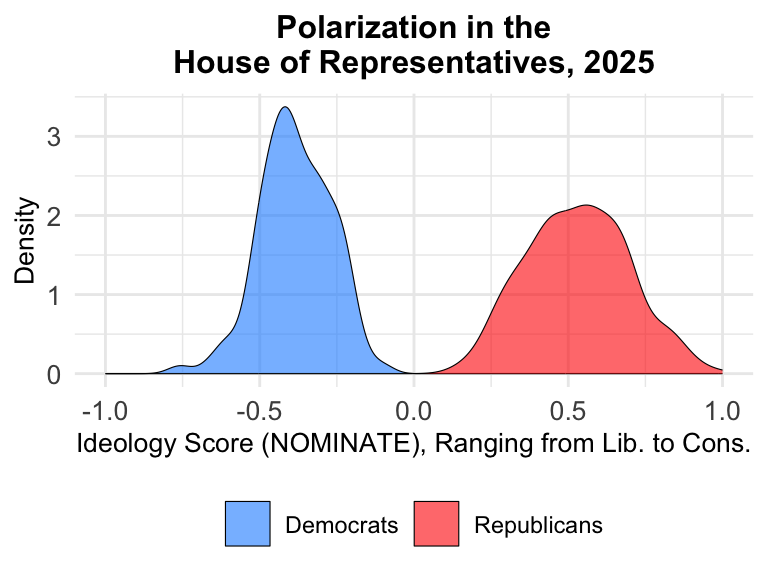
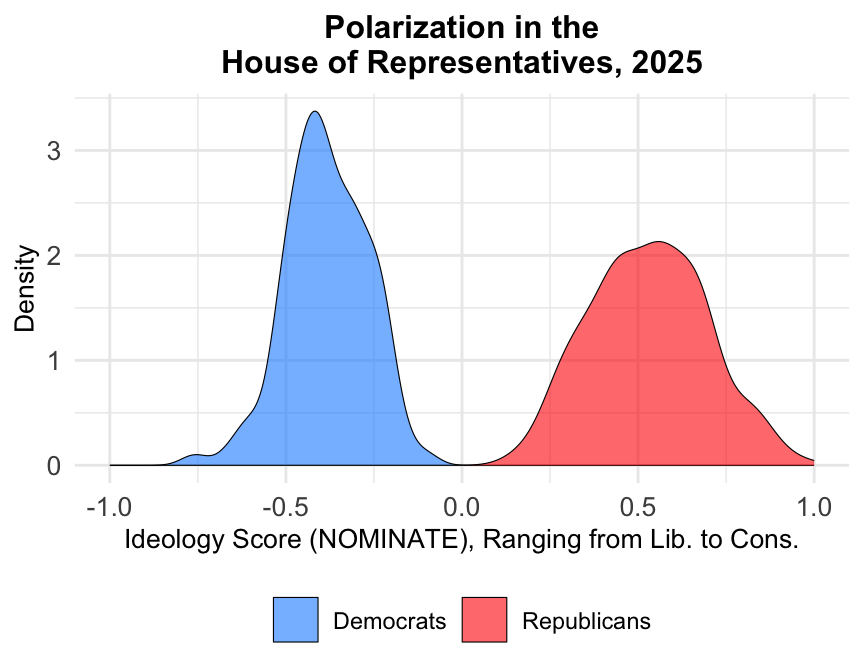
a25

diff --git a/dataps/dataviz.html b/dataps/dataviz.html
@@ -812,7 +812,7 @@ Table&nbsp;4.1: <strong>Summary of Univariate Graphs</strong>
 <div class="cell-output-display">
 <div class="quarto-figure quarto-figure-center">
 <figure class="figure">
-<p><img src="dataviz_files/figure-html/denscong_color-1.png" class="img-fluid quarto-figure quarto-figure-center figure-img" width="384"></p>
+<p><img src="dataviz_files/figure-html/denscong_color-1.png" class="img-fluid quarto-figure quarto-figure-center figure-img" width="432"></p>
 </figure>
 </div>
 </div>
@@ -836,7 +836,7 @@ Table&nbsp;4.1: <strong>Summary of Univariate Graphs</strong>
 <span id="cb15-14"><a href="#cb15-14" aria-hidden="true" tabindex="-1"></a>                    <span class="at">labels =</span> <span class="fu">c</span>(<span class="st">"Democrats"</span>, <span class="st">"Republicans"</span>), </span>
 <span id="cb15-15"><a href="#cb15-15" aria-hidden="true" tabindex="-1"></a>                    <span class="at">name=</span><span class="cn">NULL</span>) <span class="sc">+</span></span>
 <span id="cb15-16"><a href="#cb15-16" aria-hidden="true" tabindex="-1"></a>  <span class="fu">facet_wrap</span>(<span class="sc">~</span>year) <span class="sc">+</span></span>
-<span id="cb15-17"><a href="#cb15-17" aria-hidden="true" tabindex="-1"></a>  <span class="fu">labs</span>(<span class="at">title=</span><span class="st">"Partisan Polarization in the House of Representatives"</span>, </span>
+<span id="cb15-17"><a href="#cb15-17" aria-hidden="true" tabindex="-1"></a>  <span class="fu">labs</span>(<span class="at">title=</span><span class="st">"Partisan Polarization in the House of Representatives Over Time"</span>, </span>
 <span id="cb15-18"><a href="#cb15-18" aria-hidden="true" tabindex="-1"></a>       <span class="at">x=</span><span class="st">"Ideology Score (NOMINATE), Ranging from Lib. to Cons."</span>) <span class="sc">+</span></span>
 <span id="cb15-19"><a href="#cb15-19" aria-hidden="true" tabindex="-1"></a>  <span class="fu">theme_minimal</span>() <span class="sc">+</span></span>
 <span id="cb15-20"><a href="#cb15-20" aria-hidden="true" tabindex="-1"></a>  <span class="fu">theme</span>(<span class="at">legend.position =</span> <span class="st">"bottom"</span>, </span>
@@ -852,28 +852,64 @@ Table&nbsp;4.1: <strong>Summary of Univariate Graphs</strong>
 </div>
 </div>
 </div>
+<p>This graph shows the changing nature of partisan polarization from 1945-2025, every 10 years (which, again, is every 5th Congress). What we want to visualize is changes over time in those two core aspects of polarization: within-party homogeneity in preferences and between-party distance. While this graph does allow for such a visualization, an even better visualization would be to observe these changes in a more vertical fashion — have one Congress per row and just one column. We could do that using <code>facet_wrap</code> (e.g., <code>facet_wrap(~year, ncol=1)</code>), but we would have separate graphs for each with the years above each graph, creating more vertical distance between the graphs. A very powerful data visualization tool is what is called a “ridge plot,” which creates a more compact, vertical comparison. Users should first install the “ggridges” package. The syntax is simple. Everything is basically similar to our prior density plots, except that we need to specify a y variable, which will be “year” in this case because this year variable will go down the vertical side of the plot. We change the geometry to <code>geom_density_ridges</code>, which can only be used if we load the <code>ggridges</code> package.</p>
 <div class="cell" data-layout-align="center">
 <div class="sourceCode cell-code" id="cb16"><pre class="sourceCode r code-with-copy"><code class="sourceCode r"><span id="cb16-1"><a href="#cb16-1" aria-hidden="true" tabindex="-1"></a><span class="fu">library</span>(ggridges)</span>
 <span id="cb16-2"><a href="#cb16-2" aria-hidden="true" tabindex="-1"></a></span>
-<span id="cb16-3"><a href="#cb16-3" aria-hidden="true" tabindex="-1"></a></span>
-<span id="cb16-4"><a href="#cb16-4" aria-hidden="true" tabindex="-1"></a>house2 <span class="sc">|&gt;</span> </span>
-<span id="cb16-5"><a href="#cb16-5" aria-hidden="true" tabindex="-1"></a>  <span class="fu">ggplot</span>(<span class="fu">aes</span>(<span class="at">x =</span> nominate_dim1, <span class="at">y=</span><span class="fu">factor</span>(year), <span class="at">fill=</span><span class="fu">factor</span>(party_code))) <span class="sc">+</span></span>
-<span id="cb16-6"><a href="#cb16-6" aria-hidden="true" tabindex="-1"></a>  <span class="fu">geom_density_ridges</span>(<span class="at">alpha=</span>.<span class="dv">6</span>, <span class="at">linewidth=</span>.<span class="dv">2</span>) <span class="sc">+</span></span>
-<span id="cb16-7"><a href="#cb16-7" aria-hidden="true" tabindex="-1"></a>  <span class="fu">scale_fill_manual</span>(<span class="at">values =</span> <span class="fu">c</span>(<span class="st">"dodgerblue"</span>, <span class="st">"red"</span>), </span>
-<span id="cb16-8"><a href="#cb16-8" aria-hidden="true" tabindex="-1"></a>                    <span class="at">labels =</span> <span class="fu">c</span>(<span class="st">"Democrats"</span>, <span class="st">"Republicans"</span>), </span>
-<span id="cb16-9"><a href="#cb16-9" aria-hidden="true" tabindex="-1"></a>                    <span class="at">name=</span><span class="cn">NULL</span>) <span class="sc">+</span></span>
-<span id="cb16-10"><a href="#cb16-10" aria-hidden="true" tabindex="-1"></a>  <span class="fu">labs</span>(<span class="at">title=</span><span class="st">"Partisan Polarization in the House of Representatives"</span>, </span>
-<span id="cb16-11"><a href="#cb16-11" aria-hidden="true" tabindex="-1"></a>       <span class="at">x=</span><span class="st">"Ideology Score (NOMINATE), Ranging from Lib. to Cons."</span>) <span class="sc">+</span></span>
-<span id="cb16-12"><a href="#cb16-12" aria-hidden="true" tabindex="-1"></a>  <span class="fu">theme_minimal</span>() <span class="sc">+</span></span>
-<span id="cb16-13"><a href="#cb16-13" aria-hidden="true" tabindex="-1"></a>  <span class="fu">theme</span>(<span class="at">legend.position =</span> <span class="st">"bottom"</span>, </span>
-<span id="cb16-14"><a href="#cb16-14" aria-hidden="true" tabindex="-1"></a>        <span class="at">plot.title =</span> <span class="fu">element_text</span>(<span class="at">hjust =</span> <span class="fl">0.5</span>, <span class="at">size=</span><span class="dv">12</span>, <span class="at">face =</span> <span class="st">"bold"</span>),</span>
-<span id="cb16-15"><a href="#cb16-15" aria-hidden="true" tabindex="-1"></a>        <span class="at">axis.title.y =</span> <span class="fu">element_blank</span>(), </span>
-<span id="cb16-16"><a href="#cb16-16" aria-hidden="true" tabindex="-1"></a>        <span class="at">axis.title.x =</span> <span class="fu">element_text</span>(<span class="at">size=</span><span class="dv">10</span>), </span>
-<span id="cb16-17"><a href="#cb16-17" aria-hidden="true" tabindex="-1"></a>        <span class="at">axis.text  =</span> <span class="fu">element_text</span>(<span class="at">size =</span> <span class="dv">10</span>))</span></code><button title="Copy to Clipboard" class="code-copy-button"><i class="bi"></i></button></pre></div>
+<span id="cb16-3"><a href="#cb16-3" aria-hidden="true" tabindex="-1"></a>house2 <span class="sc">|&gt;</span> </span>
+<span id="cb16-4"><a href="#cb16-4" aria-hidden="true" tabindex="-1"></a>  <span class="fu">ggplot</span>(<span class="fu">aes</span>(<span class="at">x =</span> nominate_dim1, <span class="at">y=</span><span class="fu">factor</span>(year), <span class="at">fill=</span><span class="fu">factor</span>(party_code))) <span class="sc">+</span></span>
+<span id="cb16-5"><a href="#cb16-5" aria-hidden="true" tabindex="-1"></a>  <span class="fu">geom_density_ridges</span>(<span class="at">alpha=</span>.<span class="dv">6</span>, <span class="at">linewidth=</span>.<span class="dv">2</span>) <span class="sc">+</span></span>
+<span id="cb16-6"><a href="#cb16-6" aria-hidden="true" tabindex="-1"></a>  <span class="fu">scale_fill_manual</span>(<span class="at">values =</span> <span class="fu">c</span>(<span class="st">"dodgerblue"</span>, <span class="st">"red"</span>), </span>
+<span id="cb16-7"><a href="#cb16-7" aria-hidden="true" tabindex="-1"></a>                    <span class="at">labels =</span> <span class="fu">c</span>(<span class="st">"Democrats"</span>, <span class="st">"Republicans"</span>), </span>
+<span id="cb16-8"><a href="#cb16-8" aria-hidden="true" tabindex="-1"></a>                    <span class="at">name=</span><span class="cn">NULL</span>) <span class="sc">+</span></span>
+<span id="cb16-9"><a href="#cb16-9" aria-hidden="true" tabindex="-1"></a>  <span class="fu">labs</span>(<span class="at">title=</span><span class="st">"Partisan Polarization in the House of Representatives</span><span class="sc">\n</span><span class="st">Over Time"</span>, </span>
+<span id="cb16-10"><a href="#cb16-10" aria-hidden="true" tabindex="-1"></a>       <span class="at">x=</span><span class="st">"Ideology Score (NOMINATE), Ranging from Lib. to Cons."</span>) <span class="sc">+</span></span>
+<span id="cb16-11"><a href="#cb16-11" aria-hidden="true" tabindex="-1"></a>  <span class="fu">theme_minimal</span>() <span class="sc">+</span></span>
+<span id="cb16-12"><a href="#cb16-12" aria-hidden="true" tabindex="-1"></a>  <span class="fu">theme</span>(<span class="at">legend.position =</span> <span class="st">"bottom"</span>, </span>
+<span id="cb16-13"><a href="#cb16-13" aria-hidden="true" tabindex="-1"></a>        <span class="at">plot.title =</span> <span class="fu">element_text</span>(<span class="at">hjust =</span> <span class="fl">0.5</span>, <span class="at">size=</span><span class="dv">12</span>, <span class="at">face =</span> <span class="st">"bold"</span>),</span>
+<span id="cb16-14"><a href="#cb16-14" aria-hidden="true" tabindex="-1"></a>        <span class="at">axis.title.y =</span> <span class="fu">element_blank</span>(), </span>
+<span id="cb16-15"><a href="#cb16-15" aria-hidden="true" tabindex="-1"></a>        <span class="at">axis.title.x =</span> <span class="fu">element_text</span>(<span class="at">size=</span><span class="dv">10</span>), </span>
+<span id="cb16-16"><a href="#cb16-16" aria-hidden="true" tabindex="-1"></a>        <span class="at">axis.text  =</span> <span class="fu">element_text</span>(<span class="at">size =</span> <span class="dv">10</span>))</span></code><button title="Copy to Clipboard" class="code-copy-button"><i class="bi"></i></button></pre></div>
 <div class="cell-output-display">
 <div class="quarto-figure quarto-figure-center">
 <figure class="figure">
 <p><img src="dataviz_files/figure-html/ridges_house-1.png" class="img-fluid quarto-figure quarto-figure-center figure-img" width="480"></p>
+</figure>
+</div>
+</div>
+</div>
+<p>The ridge plot provides a better visualization for the key aspects we want to compare over time. The ridge plot captures classic descriptions of polarization in Congress over time. We can observe that in general, between-party distance (the distance between the general central tendencies of Democrats and Republicans) has increased over time. Overlap in preferences occurred in the 1940s through the 1980s and even a little in the 1990s. That overlap has disappeared. Also, Democrats have come slightly more homogeneous over time, while Republicans have more heterogeneous over time. For more on polarization in Congress, see, e.g., <span class="citation" data-cites="rohde1991">Rohde (<a href="references.html#ref-rohde1991" role="doc-biblioref">1991</a>)</span>; <span class="citation" data-cites="mccarty2006">McCarty, Poole, and Rosenthal (<a href="references.html#ref-mccarty2006" role="doc-biblioref">2006</a>)</span>; and <span class="citation" data-cites="mccarty2019">McCarty (<a href="references.html#ref-mccarty2019" role="doc-biblioref">2019</a>)</span>.</p>
+<div class="cell">
+<div class="sourceCode cell-code" id="cb17"><pre class="sourceCode r code-with-copy"><code class="sourceCode r"><span id="cb17-1"><a href="#cb17-1" aria-hidden="true" tabindex="-1"></a><span class="fu">library</span>(vdemdata)</span>
+<span id="cb17-2"><a href="#cb17-2" aria-hidden="true" tabindex="-1"></a>vdem <span class="ot">&lt;-</span> vdem</span>
+<span id="cb17-3"><a href="#cb17-3" aria-hidden="true" tabindex="-1"></a></span>
+<span id="cb17-4"><a href="#cb17-4" aria-hidden="true" tabindex="-1"></a>a <span class="ot">&lt;-</span> vdem <span class="sc">|&gt;</span> </span>
+<span id="cb17-5"><a href="#cb17-5" aria-hidden="true" tabindex="-1"></a>  <span class="fu">filter</span>(year<span class="sc">==</span><span class="dv">2019</span>) <span class="sc">|&gt;</span> </span>
+<span id="cb17-6"><a href="#cb17-6" aria-hidden="true" tabindex="-1"></a>  <span class="fu">ggplot</span>(<span class="fu">aes</span>(<span class="at">x=</span>e_gdppc)) <span class="sc">+</span> </span>
+<span id="cb17-7"><a href="#cb17-7" aria-hidden="true" tabindex="-1"></a>  <span class="fu">geom_density</span>(<span class="at">fill=</span><span class="st">"aquamarine3"</span>, <span class="at">alpha=</span>.<span class="dv">6</span>, <span class="at">linewidth=</span>.<span class="dv">2</span>) <span class="sc">+</span></span>
+<span id="cb17-8"><a href="#cb17-8" aria-hidden="true" tabindex="-1"></a>  <span class="fu">labs</span>(<span class="at">title=</span><span class="st">"A. GDP Per Capita, 2019"</span>, <span class="at">x=</span><span class="st">"GDP Per Capita"</span>, <span class="at">y=</span><span class="st">"Density"</span>, <span class="at">caption=</span><span class="st">"Source: Varieties of Democracy Data"</span>) <span class="sc">+</span></span>
+<span id="cb17-9"><a href="#cb17-9" aria-hidden="true" tabindex="-1"></a>  <span class="fu">scale_x_continuous</span>(<span class="at">limits =</span> <span class="fu">c</span>(<span class="dv">0</span>, <span class="dv">182</span>), <span class="at">breaks =</span> <span class="fu">seq</span>(<span class="dv">0</span>, <span class="dv">180</span>, <span class="dv">25</span>)) <span class="sc">+</span></span>
+<span id="cb17-10"><a href="#cb17-10" aria-hidden="true" tabindex="-1"></a>  <span class="fu">theme_minimal</span>() <span class="sc">+</span></span>
+<span id="cb17-11"><a href="#cb17-11" aria-hidden="true" tabindex="-1"></a>  <span class="fu">theme</span>(<span class="at">plot.title =</span> <span class="fu">element_text</span>(<span class="at">hjust =</span> <span class="fl">0.5</span>, <span class="at">size=</span><span class="dv">12</span>, <span class="at">face =</span> <span class="st">"bold"</span>),</span>
+<span id="cb17-12"><a href="#cb17-12" aria-hidden="true" tabindex="-1"></a>        <span class="at">axis.title =</span> <span class="fu">element_text</span>(<span class="at">size=</span><span class="dv">11</span>), </span>
+<span id="cb17-13"><a href="#cb17-13" aria-hidden="true" tabindex="-1"></a>        <span class="at">axis.text  =</span> <span class="fu">element_text</span>(<span class="at">size =</span> <span class="dv">10</span>))</span>
+<span id="cb17-14"><a href="#cb17-14" aria-hidden="true" tabindex="-1"></a></span>
+<span id="cb17-15"><a href="#cb17-15" aria-hidden="true" tabindex="-1"></a>b <span class="ot">&lt;-</span> vdem <span class="sc">|&gt;</span> </span>
+<span id="cb17-16"><a href="#cb17-16" aria-hidden="true" tabindex="-1"></a>  <span class="fu">filter</span>(year<span class="sc">==</span><span class="dv">2024</span>) <span class="sc">|&gt;</span> </span>
+<span id="cb17-17"><a href="#cb17-17" aria-hidden="true" tabindex="-1"></a>  <span class="fu">ggplot</span>(<span class="fu">aes</span>(<span class="at">x=</span>v2mecorrpt)) <span class="sc">+</span> </span>
+<span id="cb17-18"><a href="#cb17-18" aria-hidden="true" tabindex="-1"></a>  <span class="fu">geom_density</span>(<span class="at">fill=</span><span class="st">"aquamarine3"</span>, <span class="at">alpha=</span>.<span class="dv">6</span>, <span class="at">linewidth=</span>.<span class="dv">2</span>) <span class="sc">+</span></span>
+<span id="cb17-19"><a href="#cb17-19" aria-hidden="true" tabindex="-1"></a>  <span class="fu">labs</span>(<span class="at">title=</span><span class="st">"B. Absence of Media Corruption, 2024"</span>, <span class="at">x=</span><span class="st">"Absence of Media Corruption"</span>, <span class="at">y=</span><span class="st">"Density"</span>, <span class="at">caption=</span><span class="st">"Source: Varieties of Democracy Data"</span>) <span class="sc">+</span></span>
+<span id="cb17-20"><a href="#cb17-20" aria-hidden="true" tabindex="-1"></a>  <span class="fu">scale_x_continuous</span>(<span class="at">limits =</span> <span class="fu">c</span>(<span class="sc">-</span><span class="dv">5</span>, <span class="dv">5</span>), <span class="at">breaks =</span> <span class="fu">seq</span>(<span class="sc">-</span><span class="dv">5</span>, <span class="dv">5</span>, <span class="dv">1</span>)) <span class="sc">+</span></span>
+<span id="cb17-21"><a href="#cb17-21" aria-hidden="true" tabindex="-1"></a>  <span class="fu">theme_minimal</span>() <span class="sc">+</span></span>
+<span id="cb17-22"><a href="#cb17-22" aria-hidden="true" tabindex="-1"></a>  <span class="fu">theme</span>(<span class="at">plot.title =</span> <span class="fu">element_text</span>(<span class="at">hjust =</span> <span class="fl">0.5</span>, <span class="at">size=</span><span class="dv">12</span>, <span class="at">face =</span> <span class="st">"bold"</span>),</span>
+<span id="cb17-23"><a href="#cb17-23" aria-hidden="true" tabindex="-1"></a>        <span class="at">axis.title =</span> <span class="fu">element_text</span>(<span class="at">size=</span><span class="dv">11</span>), </span>
+<span id="cb17-24"><a href="#cb17-24" aria-hidden="true" tabindex="-1"></a>        <span class="at">axis.text  =</span> <span class="fu">element_text</span>(<span class="at">size =</span> <span class="dv">10</span>))</span>
+<span id="cb17-25"><a href="#cb17-25" aria-hidden="true" tabindex="-1"></a></span>
+<span id="cb17-26"><a href="#cb17-26" aria-hidden="true" tabindex="-1"></a>a <span class="sc">+</span> b <span class="sc">+</span> <span class="fu">plot_layout</span>(<span class="at">ncol =</span> <span class="dv">2</span>)</span></code><button title="Copy to Clipboard" class="code-copy-button"><i class="bi"></i></button></pre></div>
+<div class="cell-output-display">
+<div>
+<figure class="figure">
+<p><img src="dataviz_files/figure-html/densvdem-1.png" class="img-fluid figure-img" width="768"></p>
 </figure>
 </div>
 </div>
@@ -885,8 +921,17 @@ Table&nbsp;4.1: <strong>Summary of Univariate Graphs</strong>
 
 
 <div id="refs" class="references csl-bib-body hanging-indent" data-entry-spacing="0" role="list" style="display: none">
+<div id="ref-mccarty2019" class="csl-entry" role="listitem">
+McCarty, Nolan. 2019. <em>Polarization: What Everyone Needs to Know</em>. New York, NY: Oxford University Press.
+</div>
+<div id="ref-mccarty2006" class="csl-entry" role="listitem">
+McCarty, Nolan, Keith T Poole, and Howard Rosenthal. 2006. <em>Polarized America: The Dance of Ideology and Unequal Riches</em>. Cambridge, MA: MIT Press.
+</div>
 <div id="ref-poole1997" class="csl-entry" role="listitem">
 Poole, Keith T., and Howard Rosenthal. 1997. <em>Congress: A Political-Economic History of Roll Call Voting</em>. New York, NY: Oxford University Press.
+</div>
+<div id="ref-rohde1991" class="csl-entry" role="listitem">
+Rohde, David W. 1991. <em>Parties and Leaders in the Postreform House</em>. Chicago, IL: University of Chicago Press.
 </div>
 <div id="ref-wickham2023" class="csl-entry" role="listitem">
 Wickham, Hadley, Mine Cetinkaya-Rundel, and Garrett Grolemund. 2023. <em>R for Data Science: Import, Tidy, Transform, Visualize, and Model Data</em>. Beijing ; Sebastopol, CA: O’Reilly Media. <a href="https://r4ds.hadley.nz/">https://r4ds.hadley.nz/</a>.

diff --git a/dataps/references.html b/dataps/references.html
@@ -309,6 +309,15 @@ Edition</em>. Princeton, NJ: Princeton University Press.
 Lodge, Milton, and Charles S Taber. 2013. <em>The Rationalizing
 Voter</em>. New York, NY: Cambridge University Press.
 </div>
+<div id="ref-mccarty2019" class="csl-entry" role="listitem">
+McCarty, Nolan. 2019. <em>Polarization: What Everyone Needs to
+Know</em>. New York, NY: Oxford University Press.
+</div>
+<div id="ref-mccarty2006" class="csl-entry" role="listitem">
+McCarty, Nolan, Keith T Poole, and Howard Rosenthal. 2006. <em>Polarized
+America: The Dance of Ideology and Unequal Riches</em>. Cambridge, MA:
+MIT Press.
+</div>
 <div id="ref-mendelberg2001" class="csl-entry" role="listitem">
 Mendelberg, Tali. 2001. <em>The Race Card: Campaign Strategy, Implicit
 Messages, and the Norm of Equality</em>. Princeton, NJ: Princeton
@@ -331,6 +340,10 @@ Theories and Facts.”</span> <em>World Politics</em> 49 (2): 155–83. <a href=
 Ramseyer, J Mark. 1994. <span>“The Puzzling (<span>I</span>n)dependence
 of Courts: A Comparative Approach.”</span> <em>The Journal of Legal
 Studies</em> 23 (2): 721–47. <a href="https://doi.org/10.1086/467943">https://doi.org/10.1086/467943</a>.
+</div>
+<div id="ref-rohde1991" class="csl-entry" role="listitem">
+Rohde, David W. 1991. <em>Parties and Leaders in the Postreform
+House</em>. Chicago, IL: University of Chicago Press.
 </div>
 <div id="ref-ross2001" class="csl-entry" role="listitem">
 Ross, Michael L. 2001. <span>“Does Oil Hinder Democracy?”</span>

diff --git a/dataps/index.html b/dataps/index.html
@@ -6,7 +6,7 @@
 
 <meta name="viewport" content="width=device-width, initial-scale=1.0, user-scalable=yes">
 
-<meta name="dcterms.date" content="2026-04-23">
+<meta name="dcterms.date" content="2026-04-25">
 
 <title>Data Analysis and Statistics for Political Science</title>
 <style>
@@ -228,7 +228,7 @@ ul.task-list li input[type="checkbox"] {
     <div>
     <div class="quarto-title-meta-heading">Published</div>
     <div class="quarto-title-meta-contents">
-      <p class="date">April 23, 2026</p>
+      <p class="date">April 25, 2026</p>
     </div>
   </div>
   
